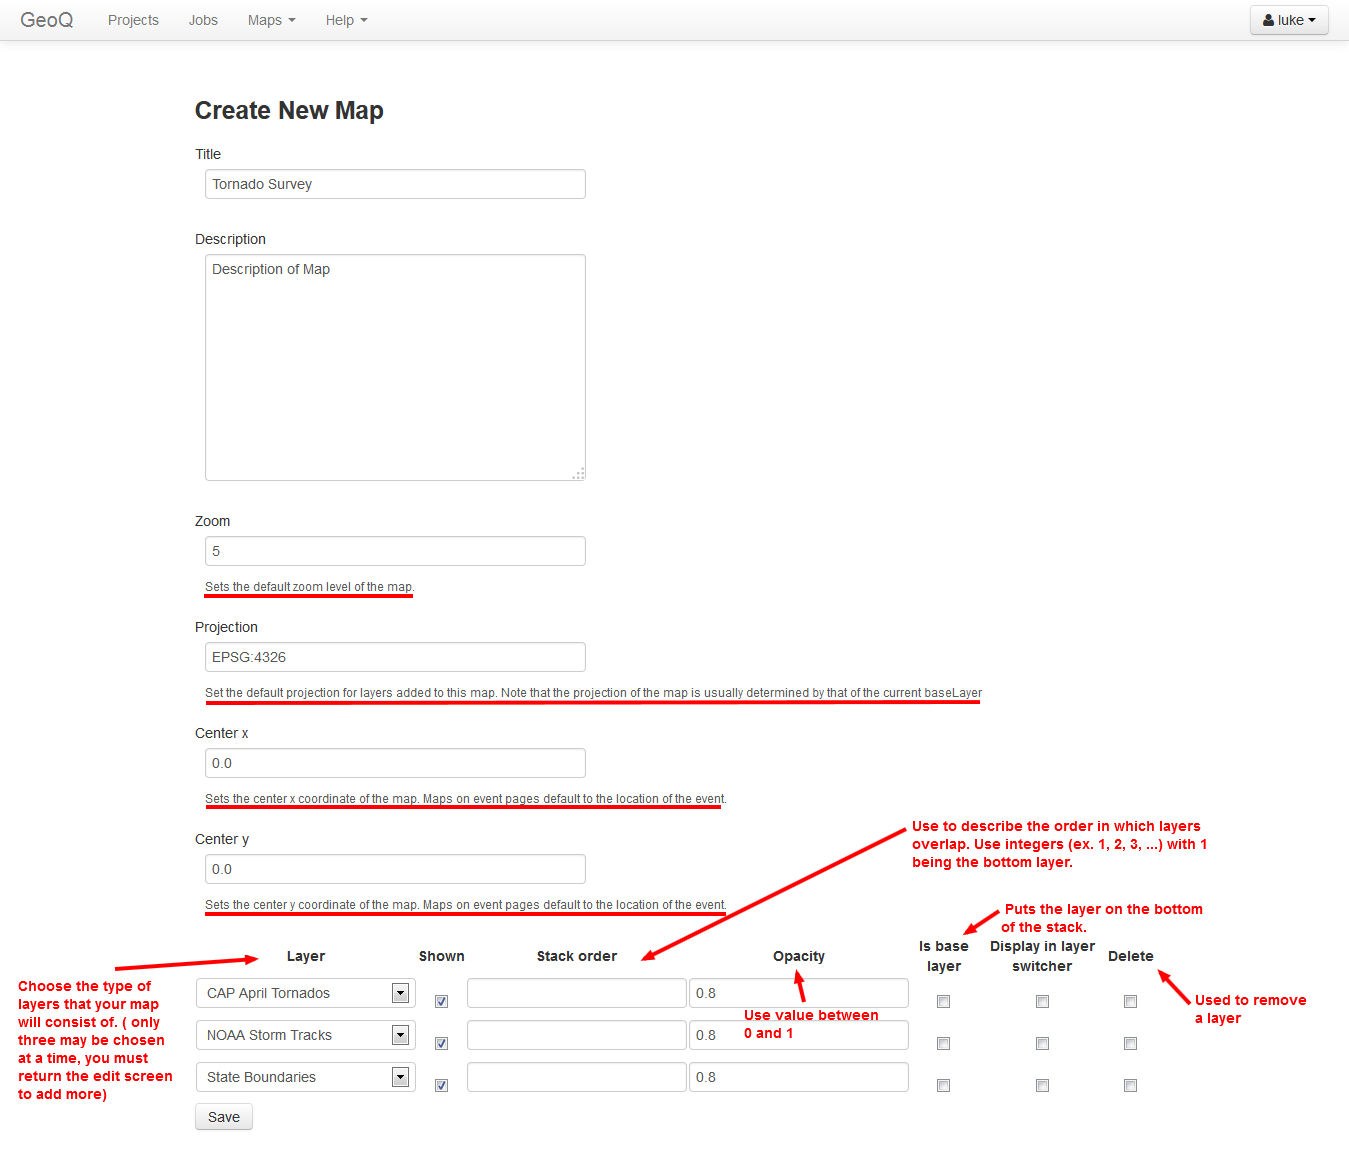
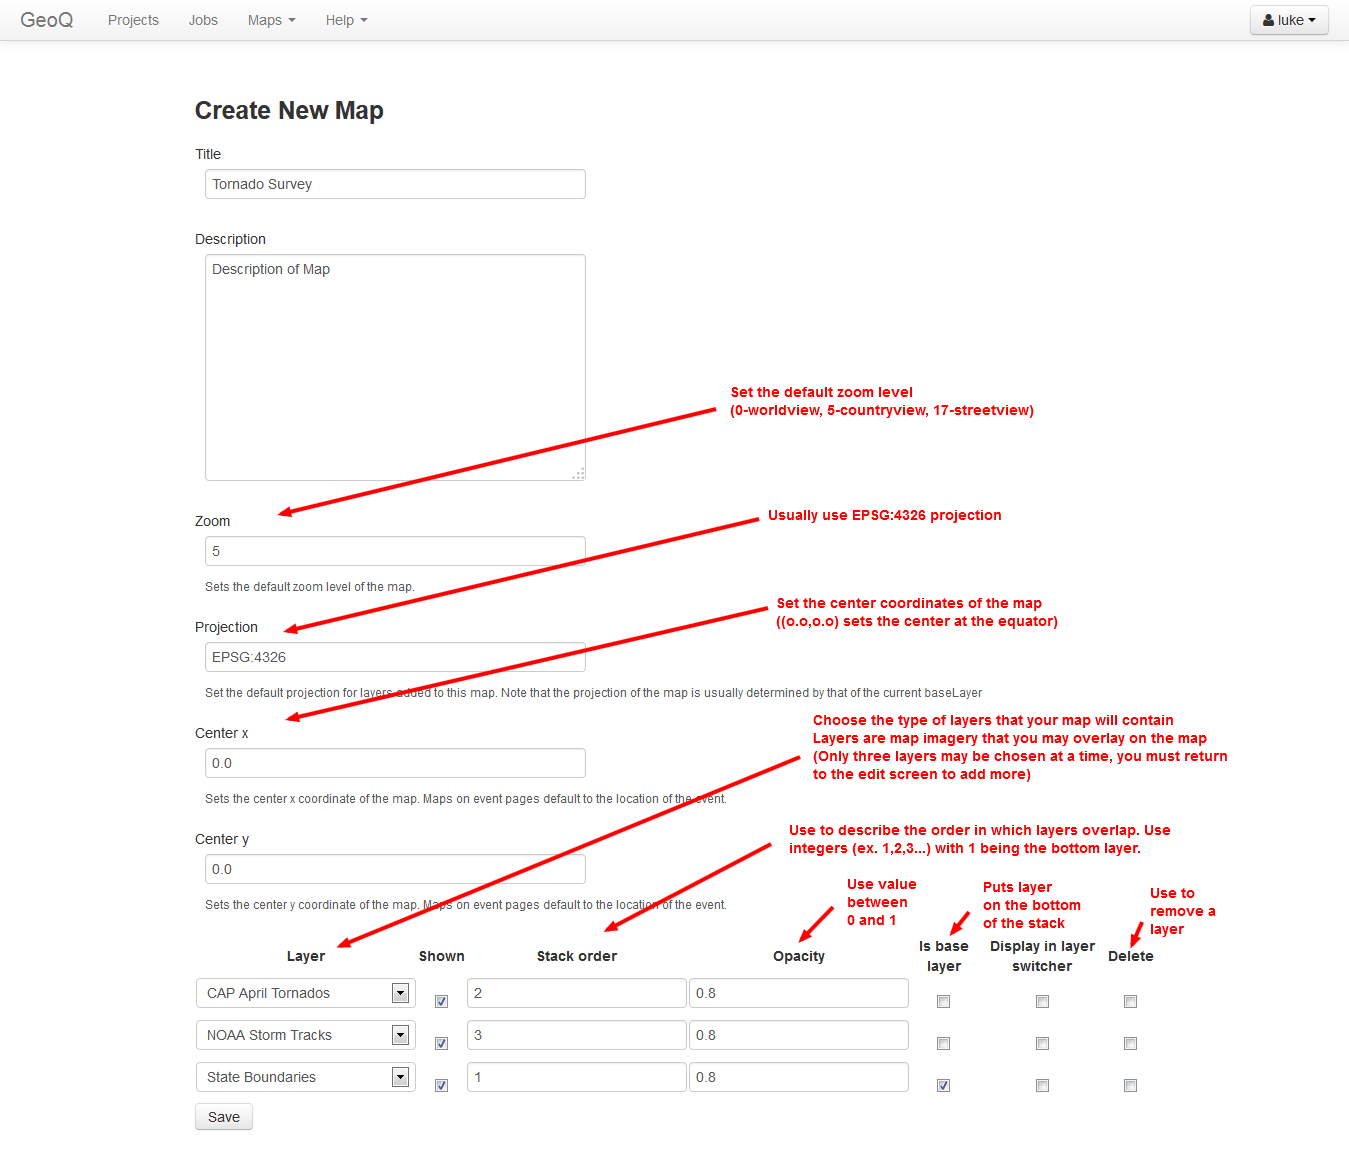
Meregd new image

diff --git a/geoq/core/templates/core/geoq_help.html b/geoq/core/templates/core/geoq_help.html
@@ -174,7 +174,7 @@
                                             <img src="{{ STATIC_URL }}images/help/create new.png" />
                                             <h3>Create New Map</h3>
                                             <p>Maps may be created at the administrative level to organize the set of layers needed for a job as well as the initial view</p>
-                                            <img src="{{ STATIC_URL }}images/help/create new map 2-edited.png" />
+                                            <img src="{{ STATIC_URL }}images/help/create new map 2.png" />
                                         </td>
                                     </tr>
                                     <tr>
